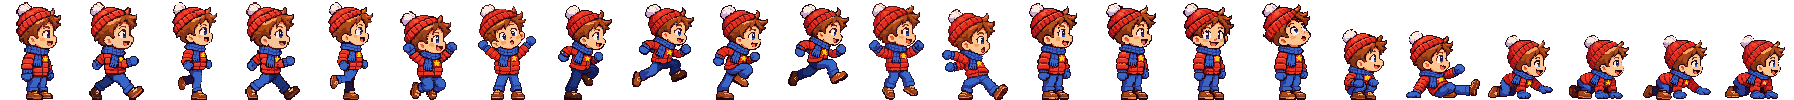
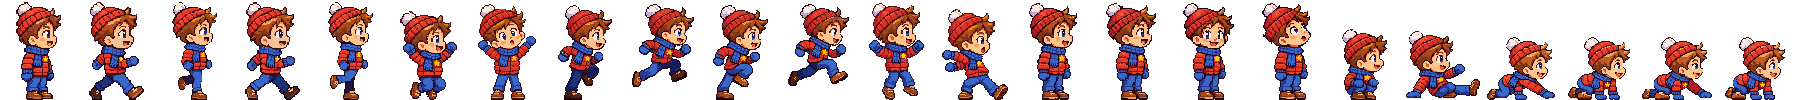
A Boy to the Rescue: båda armarna rör sig när pojken kryper

diff --git a/docs/anteckningar.md b/docs/anteckningar.md
@@ -1035,7 +1035,7 @@ Användaren: högra sidan av klockrutan var tom (headset med sladd → inget hea
 - **Bana 2 snön – fiender, boss, backar, is (15 nov, användaren valde: pulka med ögon, rullande snöbollar ur en snöhög, snöplog som trampas två gånger, isplattor man halkar på; bossen = en ledsen snögubbe, man bygger en kompis av tre snöklot som hamnar rätt själva, ett i taget, lämnas med B, kameran zoomar ut vid bossen; gossedjuret = pingvinen; backar 45°; Insert/Delete i redigeraren):** `banor/2.json` (`mark` sno-mark, `block` sno-block, `bakgrund` sno-bakgrund, `boss` snogubbe, `triumf` triumf-pingvin, `bur` bur-pingvin) – **banan bygger användaren** (`-- --bana 2 --redigera`). Nya tecken: `I` is (som `G` men halt, `bana.halt()` → `pojke.gd` `IS_ACC/IS_BROMS/IS_VAND`; isen ritas i eget lager utan `MARK_UPP`), `/` `\` backar (`_backar`, jord under; `fast()` räknar diagonalen; rutorna görs i koden av temats gräs/jord – `backe_bild()`, alla teman får backar utan nya bilder; krock = triangel; `floor_max_angle` 50°, snap 16), `q` pulka och `m` snöplog (`gangare.gd` TYPER, `liv` 2 + `skadad`-bild, står still 1 s efter första trampet; väggkollen `bana.vagg()` räknar inte backar, kanten = inget fast 40 px ner, `bana.pa_marken()` lyfter upp till ytan), `n` snöhög (`snohog.gd`, en boll var 2,6 s inom 760 px, högst 2; snöklotet studsar och glittrar ljusgult så det inte förväxlas med snöbollarna – användaren 15 nov), `snoboll.gd` (170 px/s, ±520/s² i backar, inte trampbar, spricker mot vägg), `d` snöklot (bärs över huvudet – `bana._bar`; B vid kompisen = `boss.lamna()`, annars läggs det ner framför fötterna; plockas inte upp igen förrän B släppts), `O` = bossen ur json `boss` (`snogubbe.gd`: `ZOOM` 0,8 → `bana._zooma()` + `limit_top` under 0; himlen ovanför = bakgrundens översta färg; `sover` = klar). Mätfelet räknas: plogen räknas som utslagen först när den är platt. Bilder: `tools/barnspelet-bilder.py sno sno-bakgrund` (Kakans bakgrund nr 1 av 2 – nr 2 hade en randig remsa längst ner). Redigeraren: Insert/Delete = tom kolumn in/ut där musen är (`_kolumn`), bossknappen visar banans boss. **Prov** `-- --prov-sno` (16, egen tillfällig bana `provsno-tillfallig`, tas bort) + Insert/Delete i `--prov-red`; alla fyra provsviterna klarade. Skärmbilder sedda (is, backe, block, pulka, plog, snöhög, snögubbe). **Inte provat:** spelat med kontrollen, bana 2 byggd av användaren, barnläget (bara bana 1 där).
 - **Banväljaren (15 nov, användaren: "ett fönster till redigeraren som jag startar och väljer bana i som sen startar den banan"; "dom temana vi har kan finnas med men dom behöver jag inte kunna starta, bara dom vi har gjort grund till"):** `meny.tscn` + `meny.gd`, `-- --meny` (`Spel.fran_meny`; `bana._ready` byter till menyn första gången – `Spel.meny_visad`). Tio rutor (`TEMAN`), grund = `banor/<nr>.json` finns → bild (bakgrundens vänstra del), bästa tid / "inte byggd än", **Redigera** och **Spela** (Spela grå tills `<nr>.txt` finns); övriga gråa "kommer sen". `_starta()` nollar redigerarens läge, liv, flagga och tid. **Esc** i banan/redigeraren → `Spel.till_menyn()` (bara från menyn, aldrig i barnläget); E/T i menyn gör inget. Menyposten "A Boy to the Rescue – Redigera": `tools/barnspelet-redigera-meny.sh` → `~/.local/share/applications/goblincakes-barnspelet-redigera.desktop` (Godot-kopian i `~/.local/share/goblincakes/barnspelet/godot`, spelet ur repot; användaren sa ja 15 nov), inlagd. Prov `-- --prov-meny` (5). Skärmbild sedd. **Inte provat:** användaren med musen, menyposten startad från programmenyn.
 - **Redigeraren efter tema + zoom (15 nov, användaren: "sålla ut vad man kan lägga till beroende på teman, jag behöver inte kunna se djungeltema grejer"; "zooma ut om jag vill ha mer utrymme"):** `VERKTYG` fjärde fältet = tema (banans json `"tema"`: djungel, sno) eller `bild:<ruta>` (vatten/is bara när markbladet har rutan); utan = alla banor; banor utan `tema` (provbanan) visar allt. `_synliga` = det som visas, 1–9/0 väljer bland dem; ett gömt valt verktyg → marken. Nytt tema: sätt `"tema"` i json och märk dess fiender i `VERKTYG`. Zoom: Ctrl+hjulet eller +/− (40–100 %, steg 10), `Spel.red_zoom` (kvar när scenen byggs om efter varje ändring), `_zooma()` sätter `limit_top` under 0 (himlen = bakgrundens översta färg), flyttfarten och rutnätet följer zoomen. **Felet "lägger ut samma sak lite överallt" (15 nov, användaren):** musens ruta räknades ur kameran – efter varje ändring byggs banan om, och första bildrutan stod kameran (fysikinterpoleringen) på ett annat ställe; med knappen nere hamnade saken där → ny ombyggnad → osv. Nu `_mus()` = `Spel.red_kamera` + (musen − mitten) / zoom, och kameran `reset_physics_interpolation()` i `bana._redigera`. Prov `-- --prov-klick` (riktigt musklick via `Input.parse_input_event`, knappen nere 20 bildrutor, zoom 100/60/40 %, tillfällig kopia av bana 1) – klarar sig både före och efter rättelsen, även i fönster, så felet är **inte återskapat**; orsaken är en slutsats. Prov: tema i `--prov-meny`, zoom i `--prov-red`; skärmbild 50 % sedd (`-- --bild … --zoom 0.5`). **Inte provat:** användaren med musen.
-- **Snön: backar, is, pulka, glidning, höjd, snöbollar (15 nov kväll, användaren: "konstiga klipp till nästa backdel", "isblocken … lite snö på", "pulkan ska kunna åka ner för backar", "när man slidar ska man kunna komma under block", "bygga mer uppåt … hela vägen upp till toppen av skärmen", "hoppa på snöbollarna"):** backens fot = `_backe_fot()` – rutan under en backe får gräsrutans rader som inte fick plats (eget lager, MARK_UPP), så snö+gräsjord är lika tjock längs hela backen. Isen: `_snotacke()` – gräsrutans snöpixlar (blåvita, ljusa) i ett lager MARK_UPP ovanför isrutor utan mark ovanpå. Pulkan: `gangare.gd` fart ×2,6 nerför/×0,6 uppför; kantkollen 64 px i en backe + `bana.backe_under()` (annars vände den längst ner i en 1-rutors backe – marken 47 px ner). Pojken: `LAG` 40 (block en ruta upp = 48 px luft), under tak tar glidningen inte slut (minst `KRYP`×1,5), duckar = kryper `KRYP` 110 (användaren: "crouch walk", gungar 2 px tills en krypbild finns). **Fastnade** (användarens skärm): glidning under tak som stannade (mot en låda) blev kvar i glidläget utan fart och styrning → nu blir det ducka/kryp så fort farten under taket är ≤ `KRYP`; prov "glidning som stannar under block = duckar", "kryper ut åt andra hållet", "kryper på öppen mark". **Trampen** (användaren: "snöplogarna … ibland träffar man rätt, ibland dör man direkt"): `bana._physics_process` – övre 60 % av träffrutan (minst 22 px) = tramp (skopan sitter ~34 px under plogens tak), bedövad (`_stum` > 0) = ofarlig (landar man på den studsar man), på väg upp i trampzonen = ingenting (förut låg pojken kvar i rutan efter studsen och dog). Prov: pojken faller på plogen på riktigt (lågt på skopan, bedövad, andra trampet, från sidan = oj). **Hålen i knapparna** (användaren: "knapparna blir konstiga när dom rör sig … fler hål än vad dom har"): `project.godot` `window/stretch/mode` "viewport" → **"canvas_items"** – förut ritades banan i 960×540 och förstorades ×2, så i 60 % tappades ~40 % av bildernas pixelrader (olika rader när något rörde sig). Nu ritas allt direkt i 1920×1080 (snön = ×1,2, inga pixlar tappas). Djungeln i 100 % blev pixel för pixel likadan (jämförd); alla provsviter + klickprovet i fönster klarade; skärmbilder sedda (knapparna, redigeraren). Skärmbilder med `--bild` blir nu 1920×1080. **Kläder per bana + kryp (15 nov, användaren: "speciella kläder för banor som har ett ovanligt tema"; Kakan först – hon kan inte utgå från en bild (Z-Image bara text; qwen3-vl beskrev pojken rätt men ritningen blev en annan pojke, framifrån) → ChatGPT/Codex):** banans json `"pojke"` = bladet (`pojke.gd` läser `bana._meta`, saknas filen → `pojken`); snön `pojken-vinter`. Förlagan `~/Bilder/barnspelet/pojken-vinter-forlaga.png` (godkänd: "perfekt"), `codex exec -i <original> -i <förlaga>` ritade om varje källbild som `…-vinter-prov….png` (samma duk och storlek → `figur("-vinter")` använder de vanliga bildernas skala, annars krympte han under mössan). **Benen i vintergången:** byxorna mörka redan och kängorna mörknade inte → "samma ben" (användaren); `darken_leg(…, winter)` mörkar kängorna också och mer (×0,5), letar benen 12 px under jackan (vantarna räknades som ben), hälkanten = röd med grönt < 0,38 × rött (kängor/hår är bruna). Mellanstegen gick inte att mörka i efterhand (benen ihop) → Codex ritade dem om från det VANLIGA bladets rättade mellansteg (`pojken-mellan-ref.png`, 8× uppförstorade) → `pojken-mellan-vinter-prov.png` (två figurer). **Kryp:** `kryp1–4` i båda bladen (huvudet lika stort som stående – `hair_width()`, ~60 px; 46 px var "krymper jättemycket"), animationen `kryp` 7 fps när han duckar och rör sig; första ritningen (`…-forsta.png`) hade tre fötter / samma ben → omritad med regler per bild (två händer, två knän, bortre arm/ben mörkare, växlar). Krypbilderna delar palett med resten → vanliga bladets färger ändrades lite (412 px). Prov: banväljaren väntar nu på scenbytet (`_scen`) – fem bildrutor räckte inte längre. Skärmbilder sedda (gång, mellansteg, kryp, vinterpojken i banan). **Inte provat:** användaren spelar, krypet i rörelse. Höjden: `bana._hogre()` lägger tomma rader överst till `ceil(540/zoom/48)` (snön 19), skrivs in i filen bara i redigeraren (redigeraren räknar ur filen); bakgrunden ligger `(hojd−12)×48` ner. Snöbollen trampbar, `raknas` false (inte i målets räkning). Prov i `--prov-sno` (+5, rader överst, pulkan nerför, glida under block, krypa ut, trampa snöboll; gamla proven räknar med `U` = de nya raderna); alla sex provsviterna klarade, skärmbilder av backarna och isen sedda. **Inte provat:** användaren spelar. **Andedräkten** (användaren: "lite luft som syns när han andas"): banans json `"andedrakt": true` (snön) → `pojke._andedrakt()`: ett 10×7-pixelmoln ritat i koden ur munnen (17 px fram, 30 under huvudet; lägre när han duckar) var 1,6–2,4 s (0,9–1,3 när han springer), glider fram, växer ×2,6 och bleknar på 1,1 s. Skärmbild sedd.
+- **Snön: backar, is, pulka, glidning, höjd, snöbollar (15 nov kväll, användaren: "konstiga klipp till nästa backdel", "isblocken … lite snö på", "pulkan ska kunna åka ner för backar", "när man slidar ska man kunna komma under block", "bygga mer uppåt … hela vägen upp till toppen av skärmen", "hoppa på snöbollarna"):** backens fot = `_backe_fot()` – rutan under en backe får gräsrutans rader som inte fick plats (eget lager, MARK_UPP), så snö+gräsjord är lika tjock längs hela backen. Isen: `_snotacke()` – gräsrutans snöpixlar (blåvita, ljusa) i ett lager MARK_UPP ovanför isrutor utan mark ovanpå. Pulkan: `gangare.gd` fart ×2,6 nerför/×0,6 uppför; kantkollen 64 px i en backe + `bana.backe_under()` (annars vände den längst ner i en 1-rutors backe – marken 47 px ner). Pojken: `LAG` 40 (block en ruta upp = 48 px luft), under tak tar glidningen inte slut (minst `KRYP`×1,5), duckar = kryper `KRYP` 110 (användaren: "crouch walk", gungar 2 px tills en krypbild finns). **Fastnade** (användarens skärm): glidning under tak som stannade (mot en låda) blev kvar i glidläget utan fart och styrning → nu blir det ducka/kryp så fort farten under taket är ≤ `KRYP`; prov "glidning som stannar under block = duckar", "kryper ut åt andra hållet", "kryper på öppen mark". **Trampen** (användaren: "snöplogarna … ibland träffar man rätt, ibland dör man direkt"): `bana._physics_process` – övre 60 % av träffrutan (minst 22 px) = tramp (skopan sitter ~34 px under plogens tak), bedövad (`_stum` > 0) = ofarlig (landar man på den studsar man), på väg upp i trampzonen = ingenting (förut låg pojken kvar i rutan efter studsen och dog). Prov: pojken faller på plogen på riktigt (lågt på skopan, bedövad, andra trampet, från sidan = oj). **Hålen i knapparna** (användaren: "knapparna blir konstiga när dom rör sig … fler hål än vad dom har"): `project.godot` `window/stretch/mode` "viewport" → **"canvas_items"** – förut ritades banan i 960×540 och förstorades ×2, så i 60 % tappades ~40 % av bildernas pixelrader (olika rader när något rörde sig). Nu ritas allt direkt i 1920×1080 (snön = ×1,2, inga pixlar tappas). Djungeln i 100 % blev pixel för pixel likadan (jämförd); alla provsviter + klickprovet i fönster klarade; skärmbilder sedda (knapparna, redigeraren). Skärmbilder med `--bild` blir nu 1920×1080. **Kläder per bana + kryp (15 nov, användaren: "speciella kläder för banor som har ett ovanligt tema"; Kakan först – hon kan inte utgå från en bild (Z-Image bara text; qwen3-vl beskrev pojken rätt men ritningen blev en annan pojke, framifrån) → ChatGPT/Codex):** banans json `"pojke"` = bladet (`pojke.gd` läser `bana._meta`, saknas filen → `pojken`); snön `pojken-vinter`. Förlagan `~/Bilder/barnspelet/pojken-vinter-forlaga.png` (godkänd: "perfekt"), `codex exec -i <original> -i <förlaga>` ritade om varje källbild som `…-vinter-prov….png` (samma duk och storlek → `figur("-vinter")` använder de vanliga bildernas skala, annars krympte han under mössan). **Benen i vintergången:** byxorna mörka redan och kängorna mörknade inte → "samma ben" (användaren); `darken_leg(…, winter)` mörkar kängorna också och mer (×0,5), letar benen 12 px under jackan (vantarna räknades som ben), hälkanten = röd med grönt < 0,38 × rött (kängor/hår är bruna). Mellanstegen gick inte att mörka i efterhand (benen ihop) → Codex ritade dem om från det VANLIGA bladets rättade mellansteg (`pojken-mellan-ref.png`, 8× uppförstorade) → `pojken-mellan-vinter-prov.png` (två figurer). **Kryp:** `kryp1–4` i båda bladen (huvudet lika stort som stående – `hair_width()`, ~60 px; 46 px var "krymper jättemycket"), animationen `kryp` 7 fps när han duckar och rör sig; första ritningen (`…-forsta.png`) hade tre fötter / samma ben → omritad med regler per bild (två händer, två knän, bortre arm/ben mörkare, växlar); andra omgången (`…-andra.png`): ena armen stod still ("ena armen är alltid stilla") → tredje: armarna växlar med motsatt knä. Krypbilderna delar palett med resten → vanliga bladets färger ändrades lite (412 px). Prov: banväljaren väntar nu på scenbytet (`_scen`) – fem bildrutor räckte inte längre. Skärmbilder sedda (gång, mellansteg, kryp, vinterpojken i banan). **Inte provat:** användaren spelar, krypet i rörelse. Höjden: `bana._hogre()` lägger tomma rader överst till `ceil(540/zoom/48)` (snön 19), skrivs in i filen bara i redigeraren (redigeraren räknar ur filen); bakgrunden ligger `(hojd−12)×48` ner. Snöbollen trampbar, `raknas` false (inte i målets räkning). Prov i `--prov-sno` (+5, rader överst, pulkan nerför, glida under block, krypa ut, trampa snöboll; gamla proven räknar med `U` = de nya raderna); alla sex provsviterna klarade, skärmbilder av backarna och isen sedda. **Inte provat:** användaren spelar. **Andedräkten** (användaren: "lite luft som syns när han andas"): banans json `"andedrakt": true` (snön) → `pojke._andedrakt()`: ett 10×7-pixelmoln ritat i koden ur munnen (17 px fram, 30 under huvudet; lägre när han duckar) var 1,6–2,4 s (0,9–1,3 när han springer), glider fram, växer ×2,6 och bleknar på 1,1 s. Skärmbild sedd.
 - **Zoom per bana (15 nov, användaren: "jag vill välja vilken zoom det ska vara per bana, jungelbanan är perfekt som den är, snöbanan vill jag ha lite mer hopp på, då passar det bra med större vy" – visade redigeraren på 60 %):** banans json `"zoom"` (snön 0.6), annars `Spel.ZOOM` 1.0; `bana.zoom()`, kameran i `_ny_kamera` (+ `limit_top` under 0 = himmel ovanför den låga banan), bossens `ZOOM` bara om den är mer utzoomad (`minf`). Redigeraren börjar på banans zoom (`Spel.red_zoom` −1 = "som banan", nollas från banväljaren). Prov: zoomen i `--prov-djungel` och `--prov-sno`.
 - **Idé: manteln som powerup (15 nov, användaren: "den kan vara en powerup som krävs för att klara en bana och boss")** – den rutiga filten från ikonbilden. Byggs inte än; förslag lämnade (glidflyg, flyga högre, skydd), Y = kraft-knappen. **Användaren 15 nov:** kanske i molnbanan (bana 6) – pojken får manteln och kan flyga.
 - **Ordningen (15 nov, användaren):** banorna först, sedan kartan runt dem, sedan barnläget. **Bana 1 djungel – bossen:** en leksaks-orangutang som man kastar bananer till tills den blir mätt och somnar. Egna fiender per tema. **Djungelns fiender (valda 15 nov):** leksaksorm (ringlar på marken, hoppa över/trampa), plyschpapegoja (flyger i vågor), krokodil som hoppar upp ur vattengropar, kokosnötter som ramlar från palmer (fara, skakar först). Uppdragbar apa med cymbaler valdes inte. Bananerna ligger framme när man kommer till bossen, kastas med **B**; träff i munnen = mättare (syns som bild: magen, trötta ögon), 3–5 bananer → gäspar och somnar → buren öppnas. Gossedjuret i djungeln = Björnen.
